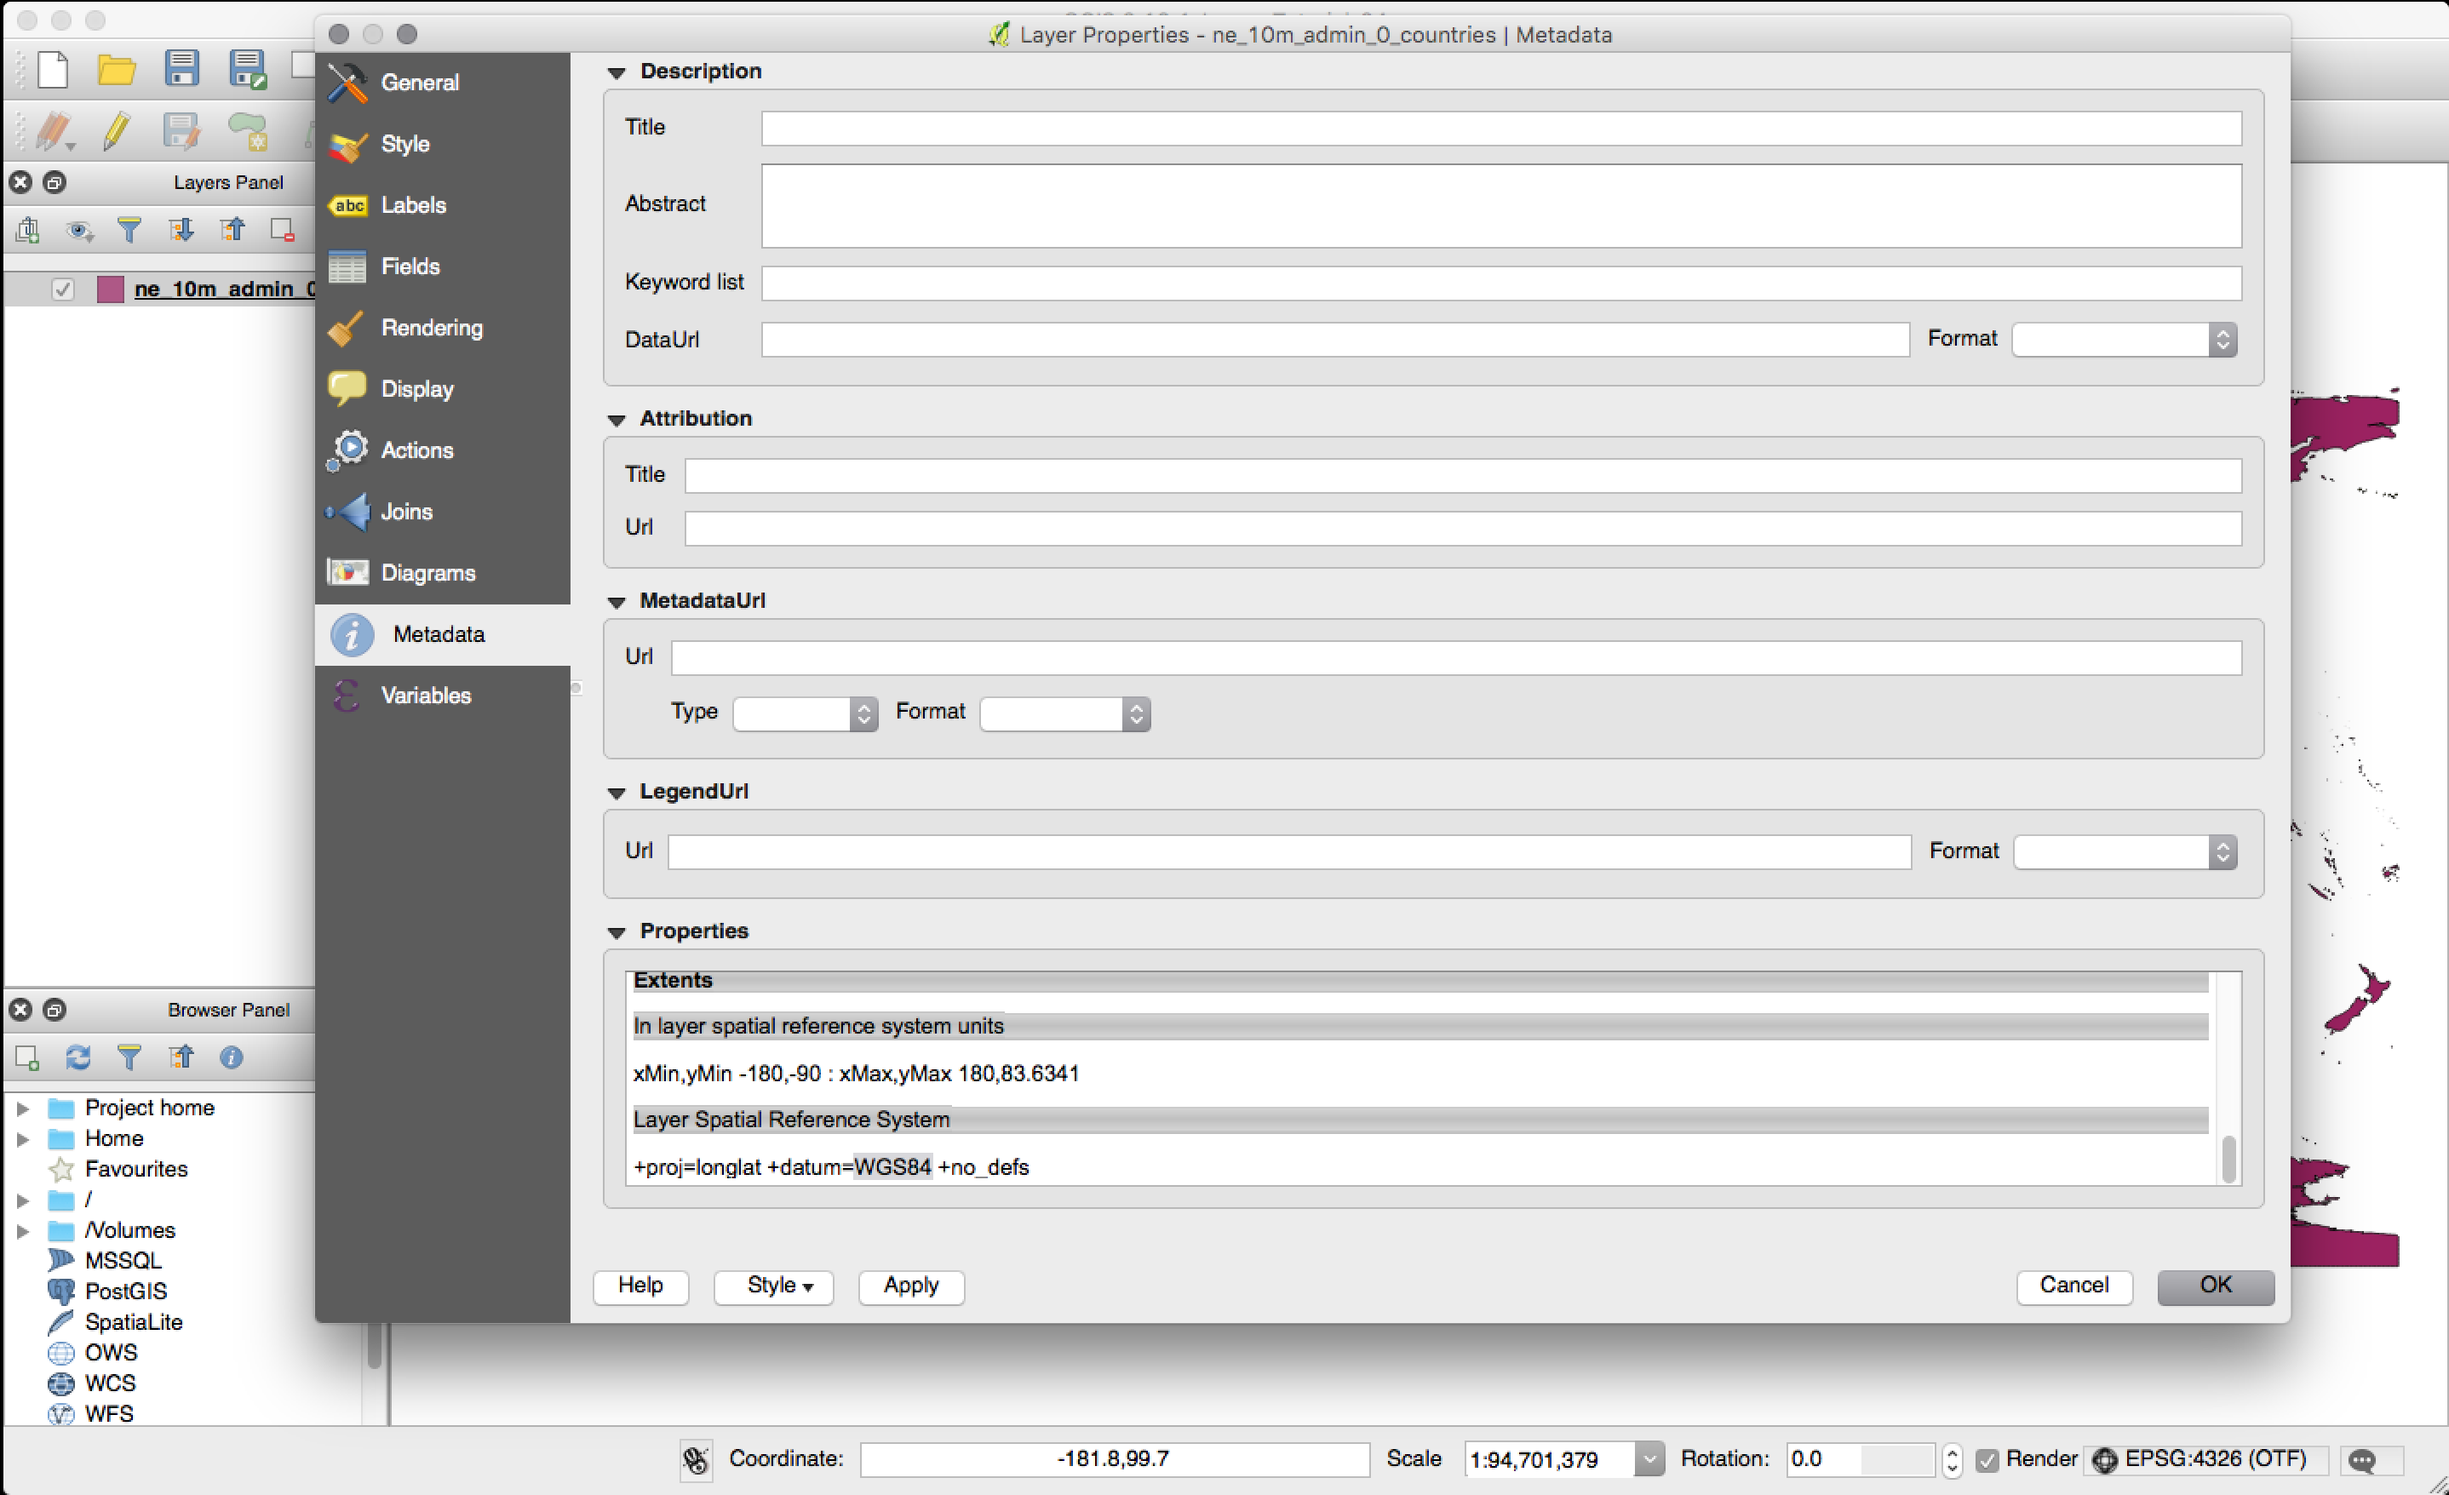
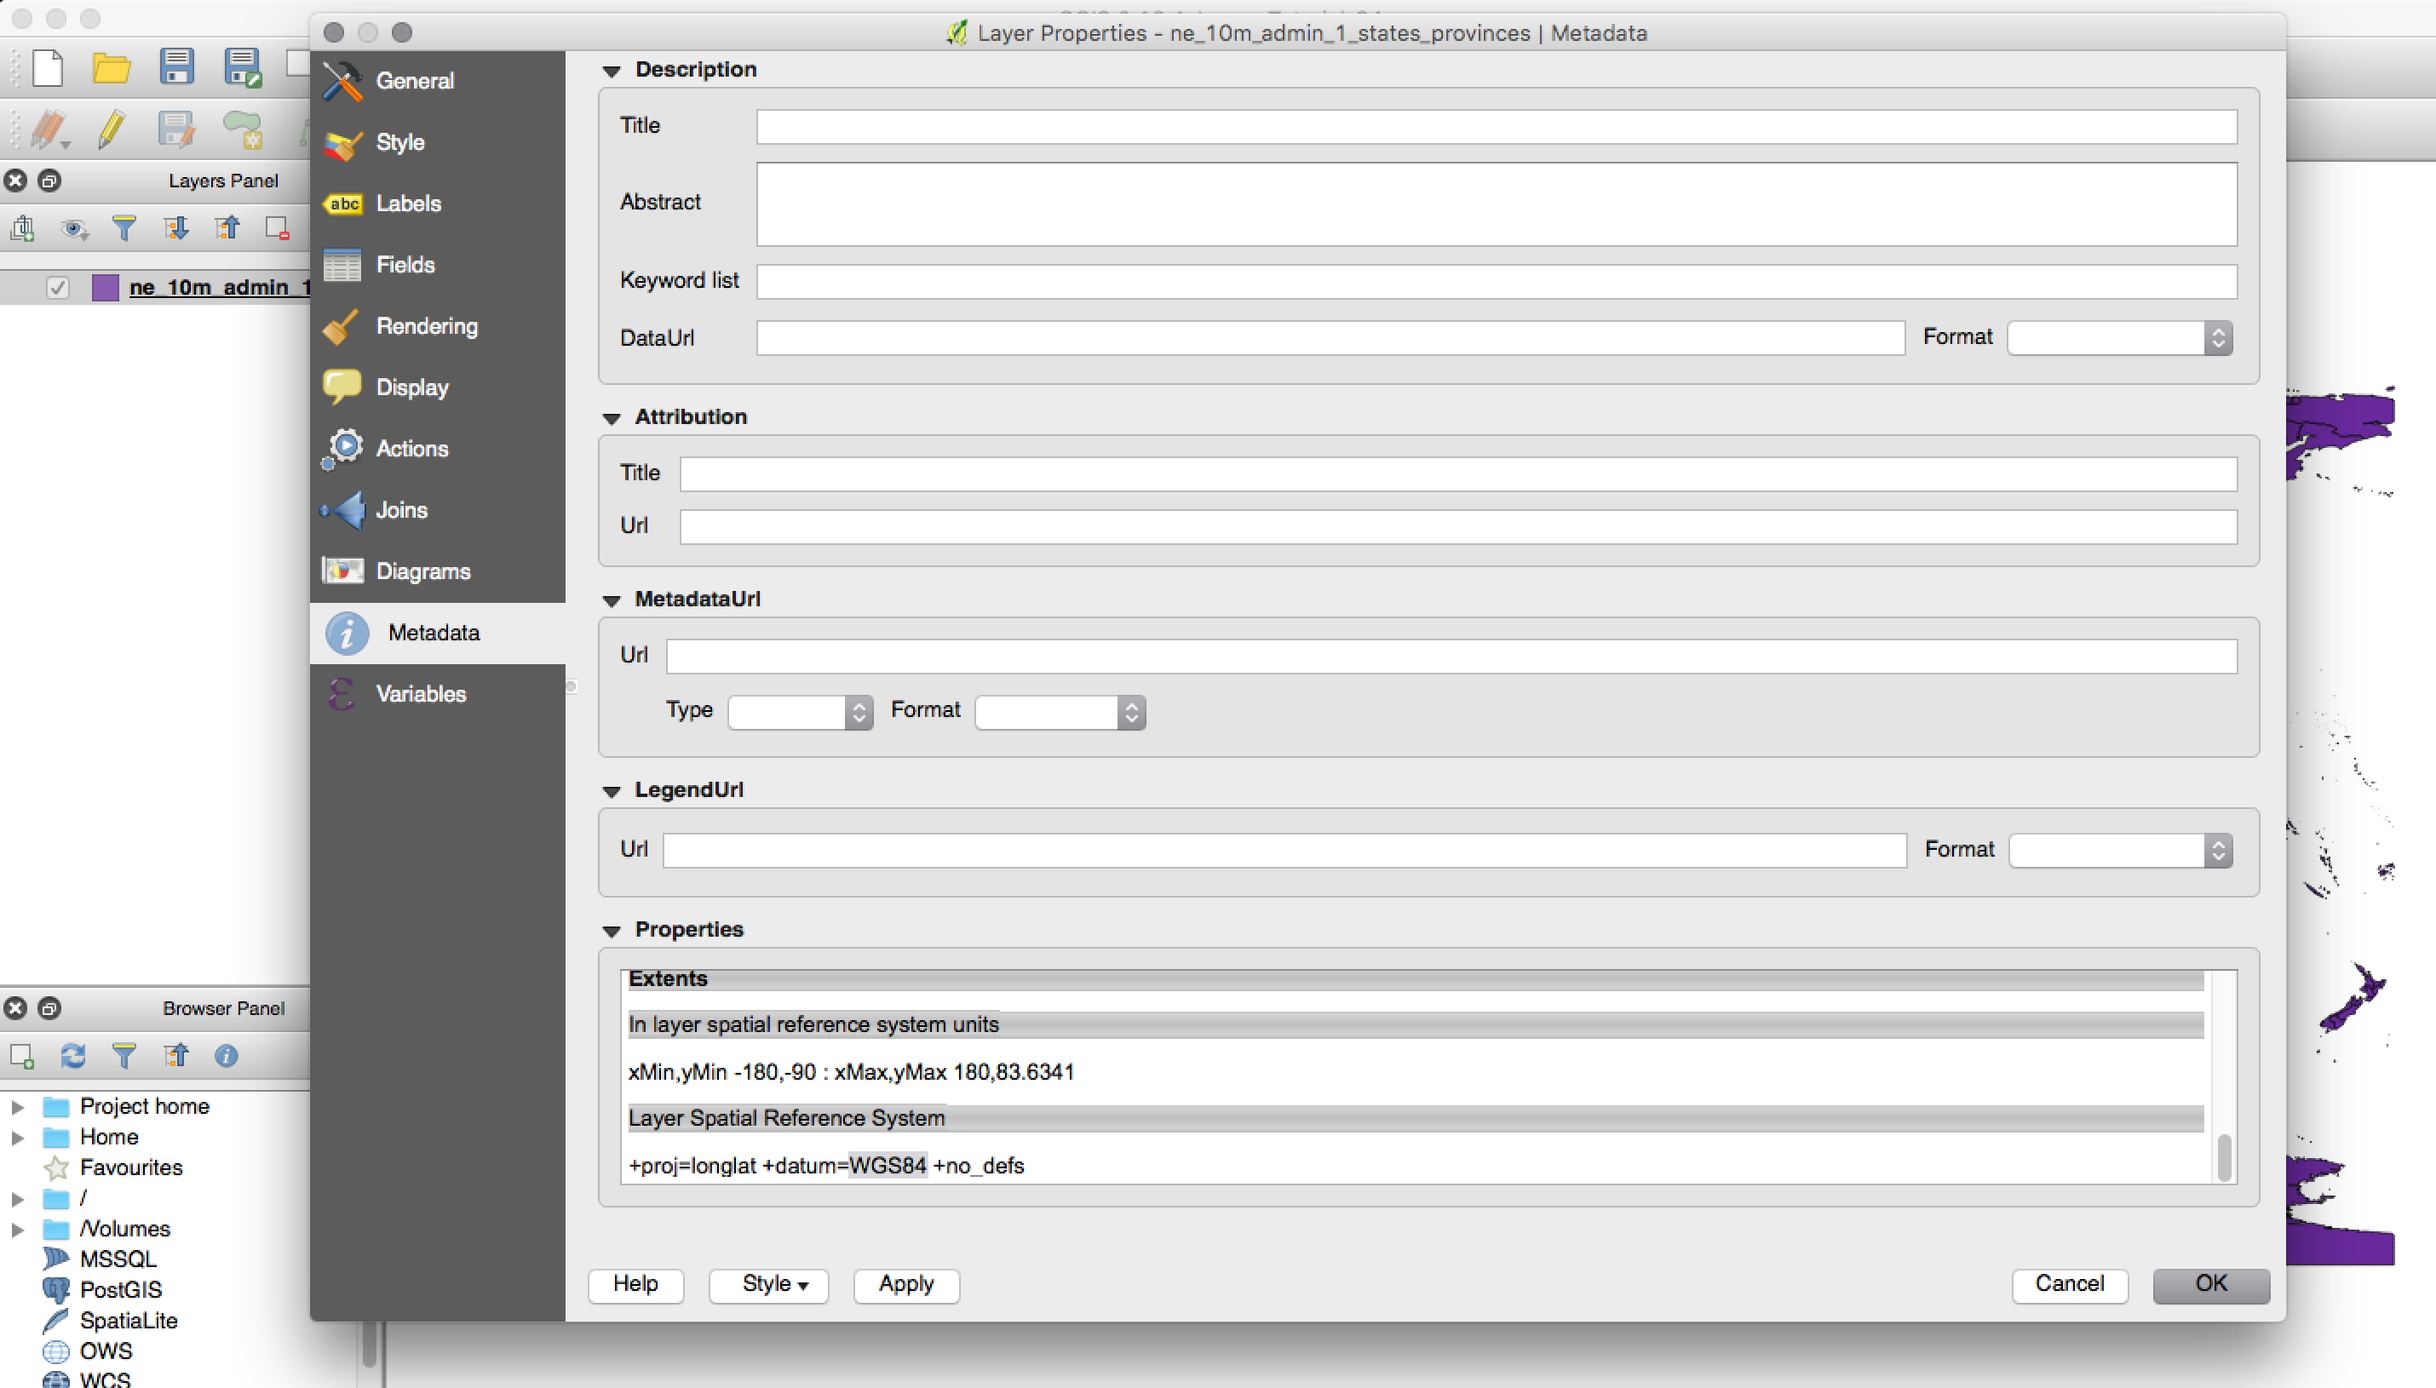
progressing

diff --git a/Spring_2016/Tutorials/04_Working_with_Projections.md b/Spring_2016/Tutorials/04_Working_with_Projections.md
@@ -3,21 +3,39 @@ The WGS84 Geographic Coordinate System is the default projection in QGIS.
 
 ### Datasets
 This tutorial will incorporate vector datasets provided by Natural Earth.
-* ne_10m_admin_0_countries (Admin 0 - Countries) - Current country boundaries. Originally downloaded [here](http://www.naturalearthdata.com/downloads/10m-cultural-vectors/10m-admin-0-countries/).
+* ne_10m_admin_1_states_provinces (Admin 1 – States, Provinces) - Internal administrative boundaries. Originally downloaded [here](http://www.naturalearthdata.com/downloads/10m-cultural-vectors/10m-admin-0-countries/).
 
 ### Datum, Projection, CRS
 #### Datum
-A datum defines the surface to which a given set of lat/lon coordinates is referenced, as well as the position of that surface in relation to the center of the earth. Examples include NAD83 (which we encountered in previous tutorials that used the NAD_1983_StatePlane_New_York_Long_Island_FIPS_3104_Feet projection), WGS84, and NAD27. If you open up the QGIS "Project Properties | CRS" menu, for example, and search for "NAD83," QGIS will generate a long list of different projections referenced to the NAD83 datum. 
+A datum defines the surface to which a given set of lat/lon coordinates is referenced, as well as the position of that surface in relation to the center of the earth. Examples include NAD83 (which we encountered in previous tutorials that used the NAD_1983_StatePlane_New_York_Long_Island_FIPS_3104_Feet projection), WGS84, and NAD27. If you open up the QGIS `Project Properties | CRS` menu, for example, and search for `NAD83`, QGIS will generate a long list of different projections referenced to the NAD83 datum. 
 
 Two datasets that were originally referenced to different datums, but which are then rendered in the same projection, will therefore not line up.
 #### Projection / CRS
 A projection, or Coordinate Reference System (CRS), is used to describe geographic data. A projection is the set of transformations that converts a series of geographic coordinates, which are locations on a curved surface (the datum), into locations on a flat surface.
 #### A note re: QGIS 'on the fly' CRS Transformation
 *_The layer you currently have selected when you check, or uncheck this option, determines its effects._*
-* If you _uncheck_ "Enable 'on the fly' CRS Transformation," whether or not you currently have a layer selected does not matter: any layers that started off in a different projection but were transformed to correspond to the first layer you added to the project will be un-transformed, and rendered in the projection associated with the data file.
-* If you _check_ "Enable 'on the fly' CRS Transformation," you must have the first layer, which determined the projection of the project, selected in the left panel.  
+* If you _uncheck_ `Enable 'on the fly' CRS Transformation`, whether or not you currently have a layer selected does not matter: any layers that started off in a different projection but were transformed to correspond to the first layer you added to the project will be un-transformed, and rendered in the projection associated with the data file.
+* If you _check_ `Enable 'on the fly' CRS Transformation`, you must have the first layer, which determined the projection of the project, selected in the left panel.  
 
-### Creating a U.S. Map from a Different Projection
-* First, open a new project in QGIS and add the Natural Earth countries data. The data is referenced to the WGS84 datum, which we can see by navigating to the "Metadata" section under "Layer Properties."
+### Creating a map of the U.S.
+#### Re-projecting selected features from the Natural Earth dataset
+* First, open up a new project in QGIS and add the Natural Earth states and provinces data. The data is referenced to the WGS84 datum, which we can see by navigating to the `Metadata` section under `Layer Properties`. The definition for the layer's projection is under `Layer Spatial Reference System`.
 
 ![Layer Projection Metadata](https://github.com/juanfrans-courses/mapping_arch_hum/blob/master/Spring_2016/Tutorials/Images/04_Working_with_Projections/01_Layer_Projection_Metadata.png)
+
+* Since we are creating a map of the United States, the next step is to select all states and provinces that fall within U.S. administrative boundaries. Open up the attribute table for the states and provinces layer, click the `Select features using an expression` option, and build a query to select all features for which the `admin` value is equal to `United States of America`.
+
+![Select U.S. States](https://github.com/juanfrans-courses/mapping_arch_hum/blob/master/Spring_2016/Tutorials/Images/04_Working_with_Projections/02_Select_US.png)
+
+* Hit `Select` and close the query builder. Navigating back to the map, only the U.S. should be selected.
+
+![Select U.S. States](https://github.com/juanfrans-courses/mapping_arch_hum/blob/master/Spring_2016/Tutorials/Images/04_Working_with_Projections/03_Selected_US.png)
+
+#### Joining
+#### Hawaii and Alaska
+
+Read [this](https://medium.com/@joshuatauberer/how-that-map-you-saw-on-538-under-represents-minorities-by-half-and-other-reasons-to-consider-a-4a98f89cbbb1#.ih16rv26m) excellent piece on why this method of visualization can be misleading.
+
+
+
+
